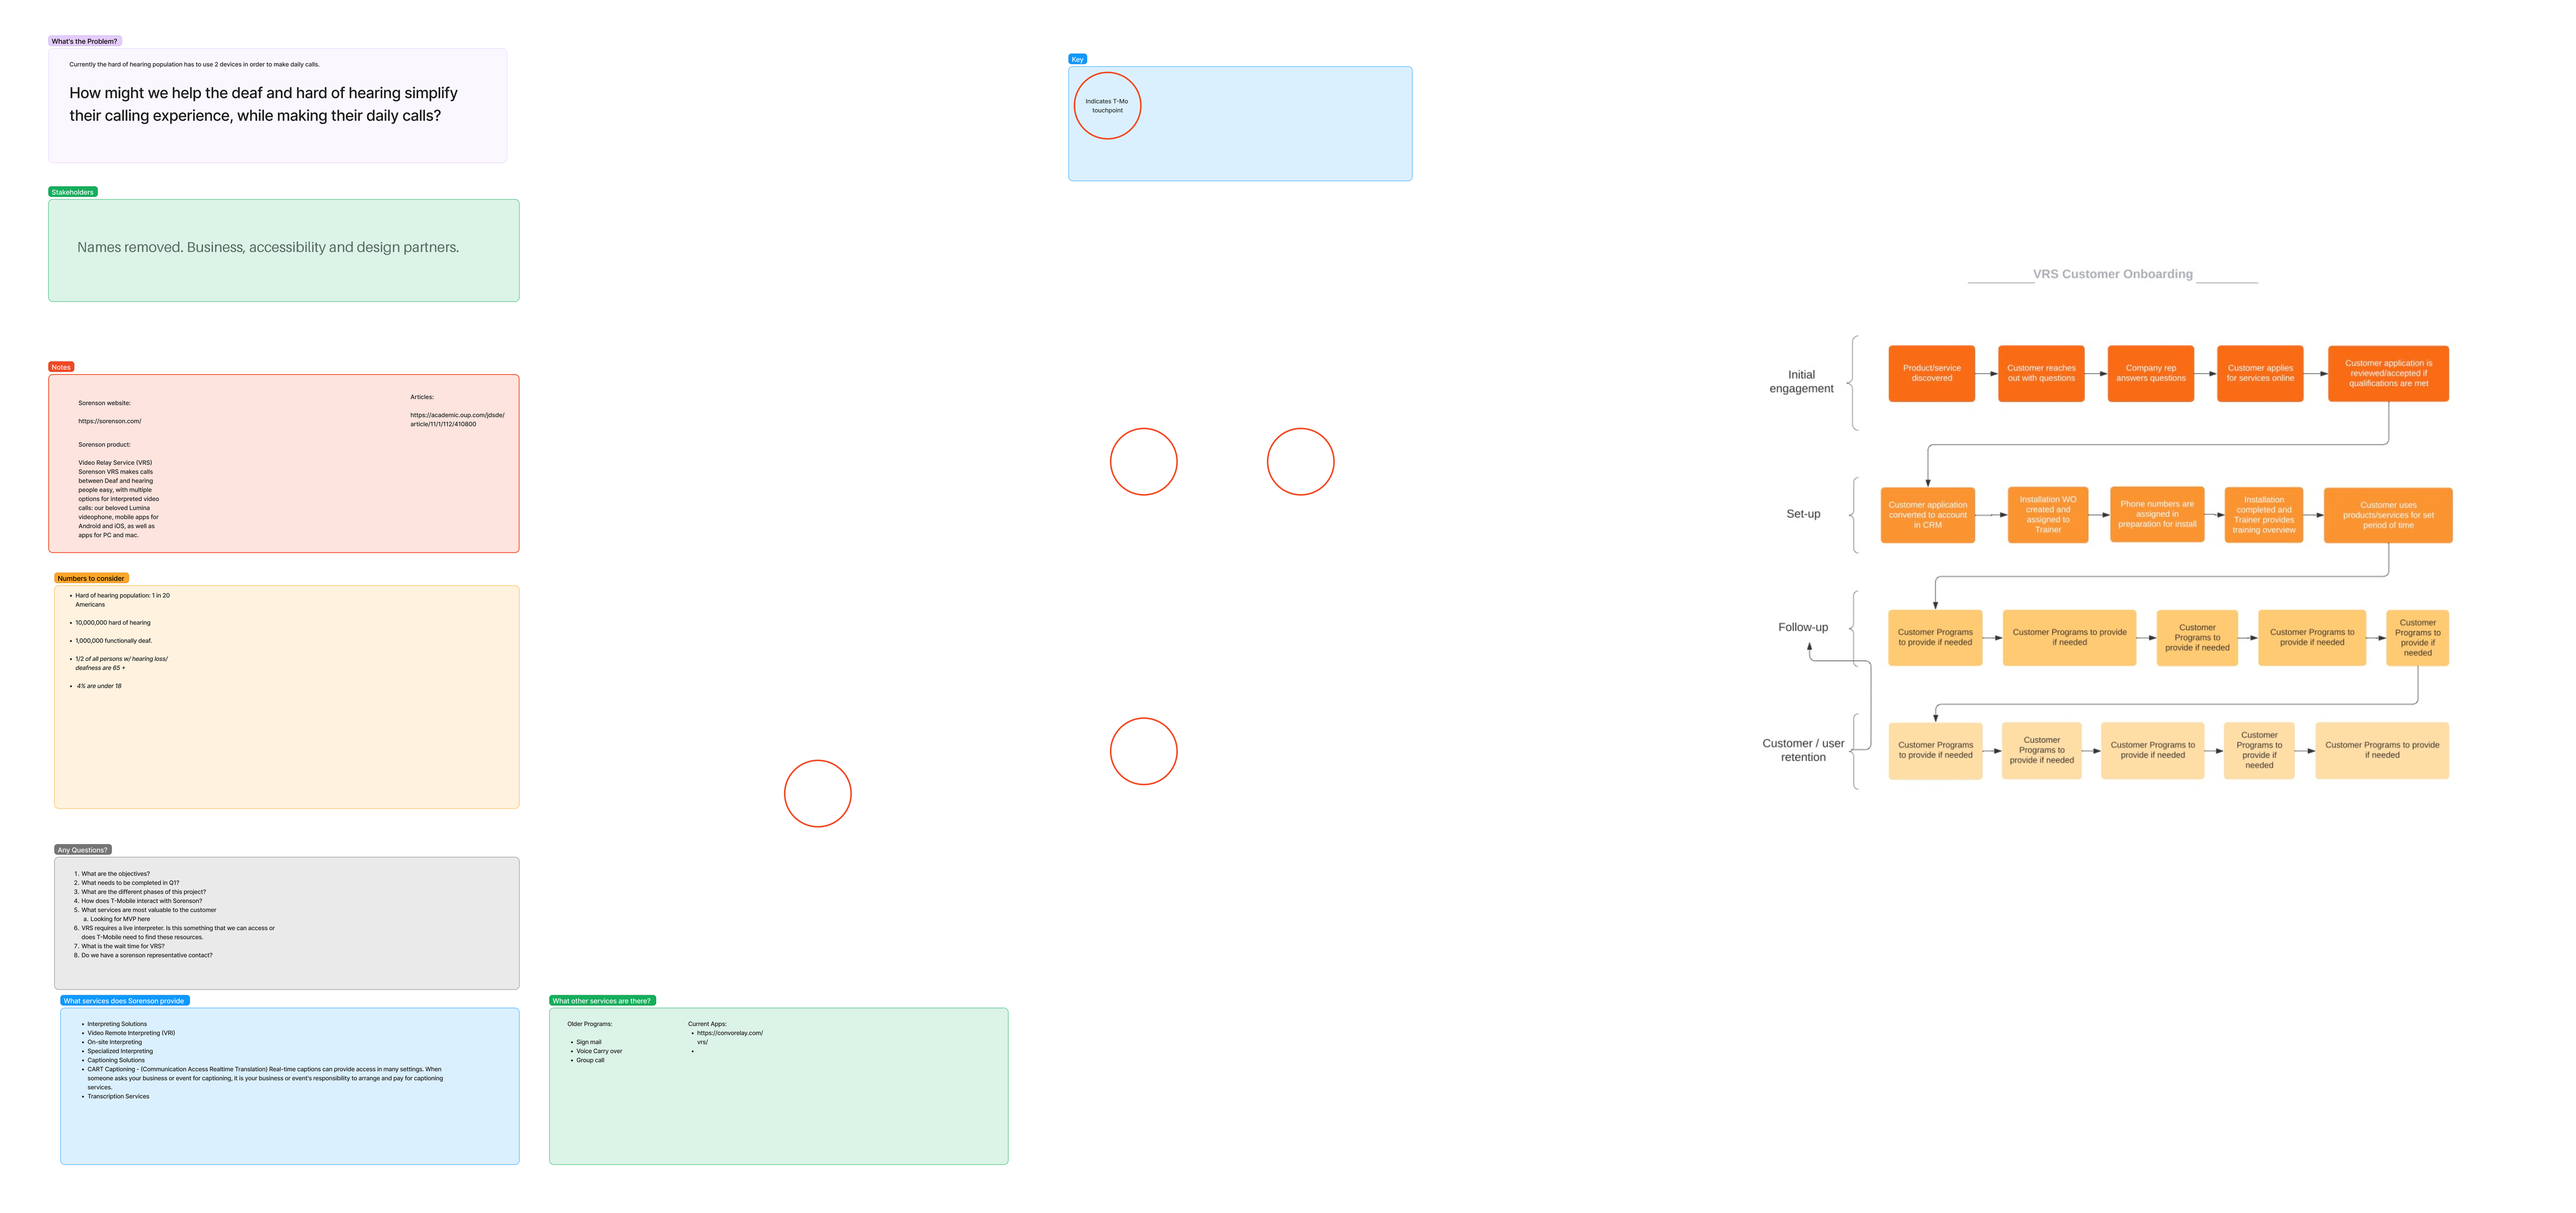
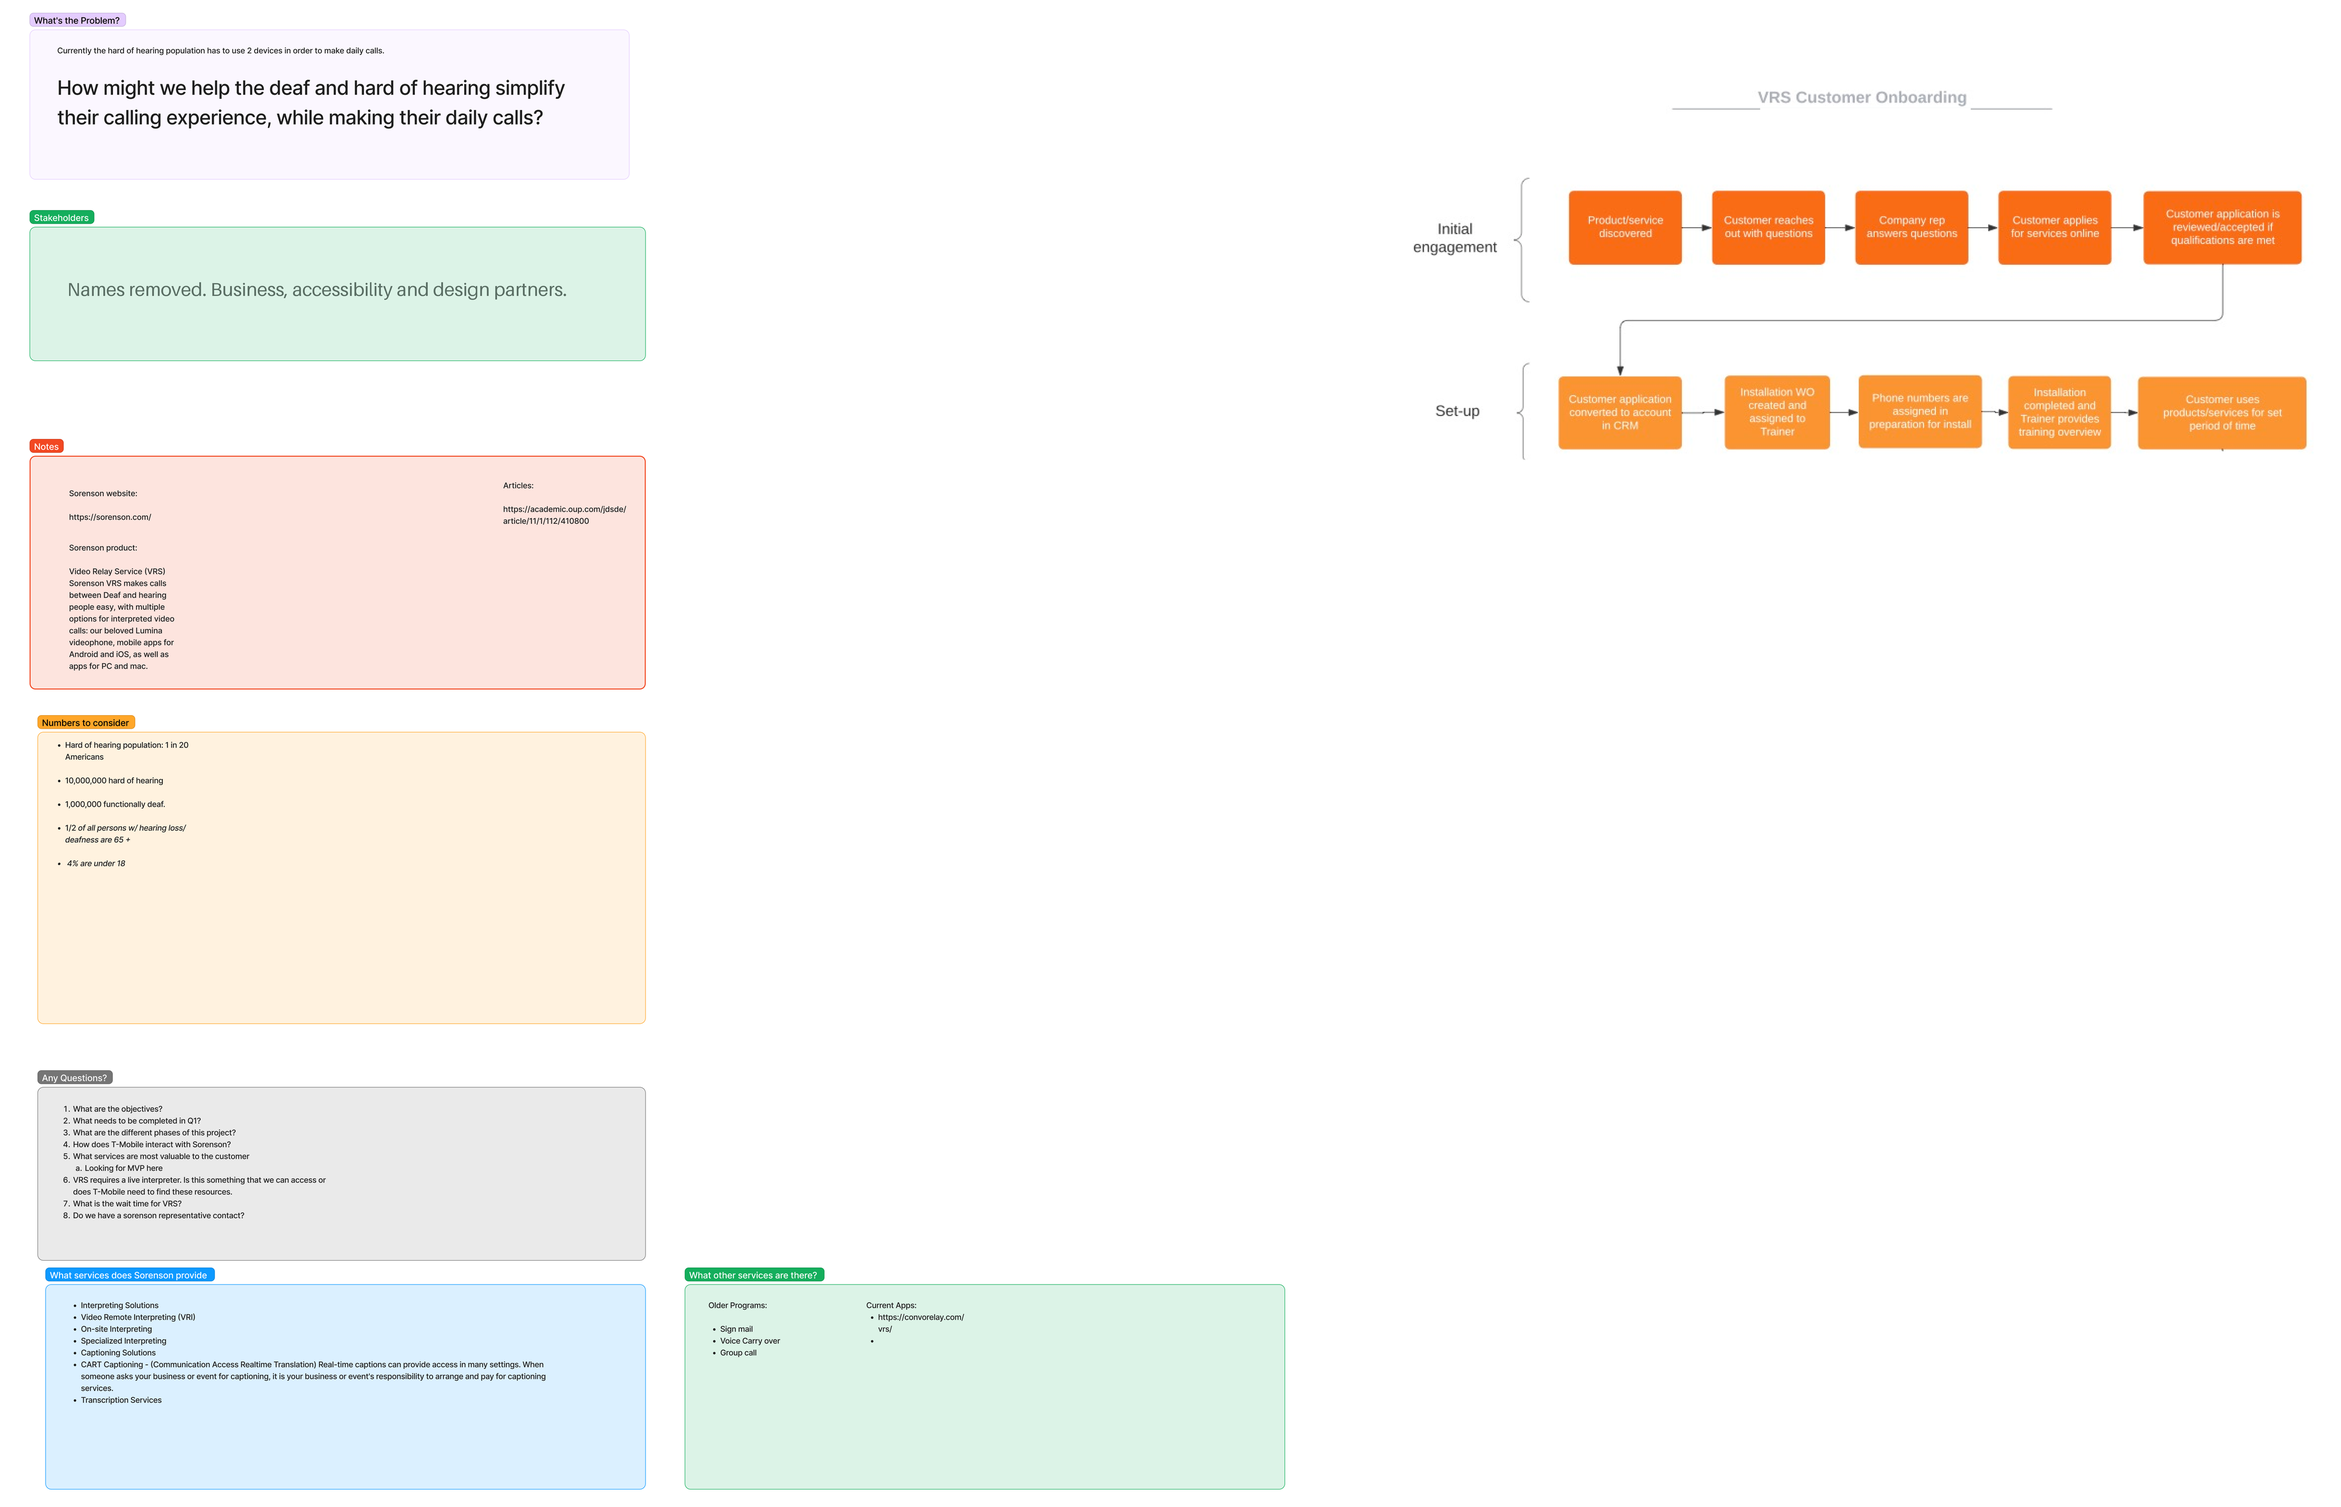
T-Mobile case study: trim empty space and placeholder rows from the accessibility board
The source board had a Key and three circles marking T-Mobile touchpoints over
blank space (the diagram they annotated is not in the file), and the video
relay flow's follow-up and retention rows were placeholders. The image now
shows the filled parts only, and the copy says the flow runs from first
contact through set-up. Original Accessibility.png is untouched.

Claude-Session: https://claude.ai/code/session_01PLhoRjxSHD1qckVhM4bnEd

diff --git a/content/case-studies/tmobile.md b/content/case-studies/tmobile.md
@@ -85,9 +85,9 @@ Atlas, Samson and DASH show up at different steps. Add a Line only worked in DAS
 
 A separate request asked how T-Mobile might simplify calling for deaf and hard of hearing customers. Those customers needed an additional device from Sorenson, a video relay service, to make phone calls, so a daily call meant two devices.
 
-I set out to capture the journey of an existing hearing-impaired T-Mobile customer and find what we did not yet know. I mapped how a customer onboards onto the video relay service, from first contact through set-up, follow-up and retention. I led stakeholder meetings, started user interviews with the right audience, and produced a journey map that gave the business and technology teams somewhere to raise their own gaps in knowledge. I do not have an outcome to report for this one.
+I set out to capture the journey of an existing hearing-impaired T-Mobile customer and find what we did not yet know. I mapped how a customer onboards onto the video relay service, from first contact through set-up. I led stakeholder meetings, started user interviews with the right audience, and produced a journey map that gave the business and technology teams somewhere to raise their own gaps in knowledge. I do not have an outcome to report for this one.
 
-![Discovery board for the hearing-impaired customer project: the problem statement, notes on Sorenson's video relay service, open questions, and an onboarding flow for the service](/assets/tmobile/accessibility-names-removed.png "Discovery board for the project. The problem statement sits top left, with notes on Sorenson's service, questions for stakeholders and the video relay onboarding flow I mapped. Colleague names removed. Zoom in to read it.")
+![Discovery board for the hearing-impaired customer project: the problem statement, notes on Sorenson's video relay service, open questions, and an onboarding flow for the service](/assets/tmobile/accessibility-names-removed.png "Discovery board for the project. The problem statement sits top left, with notes on Sorenson's service, questions for stakeholders and the first two phases of the video relay onboarding flow I mapped. Colleague names removed and empty space trimmed. Zoom in to read it.")
 
 ## What happened next
 
